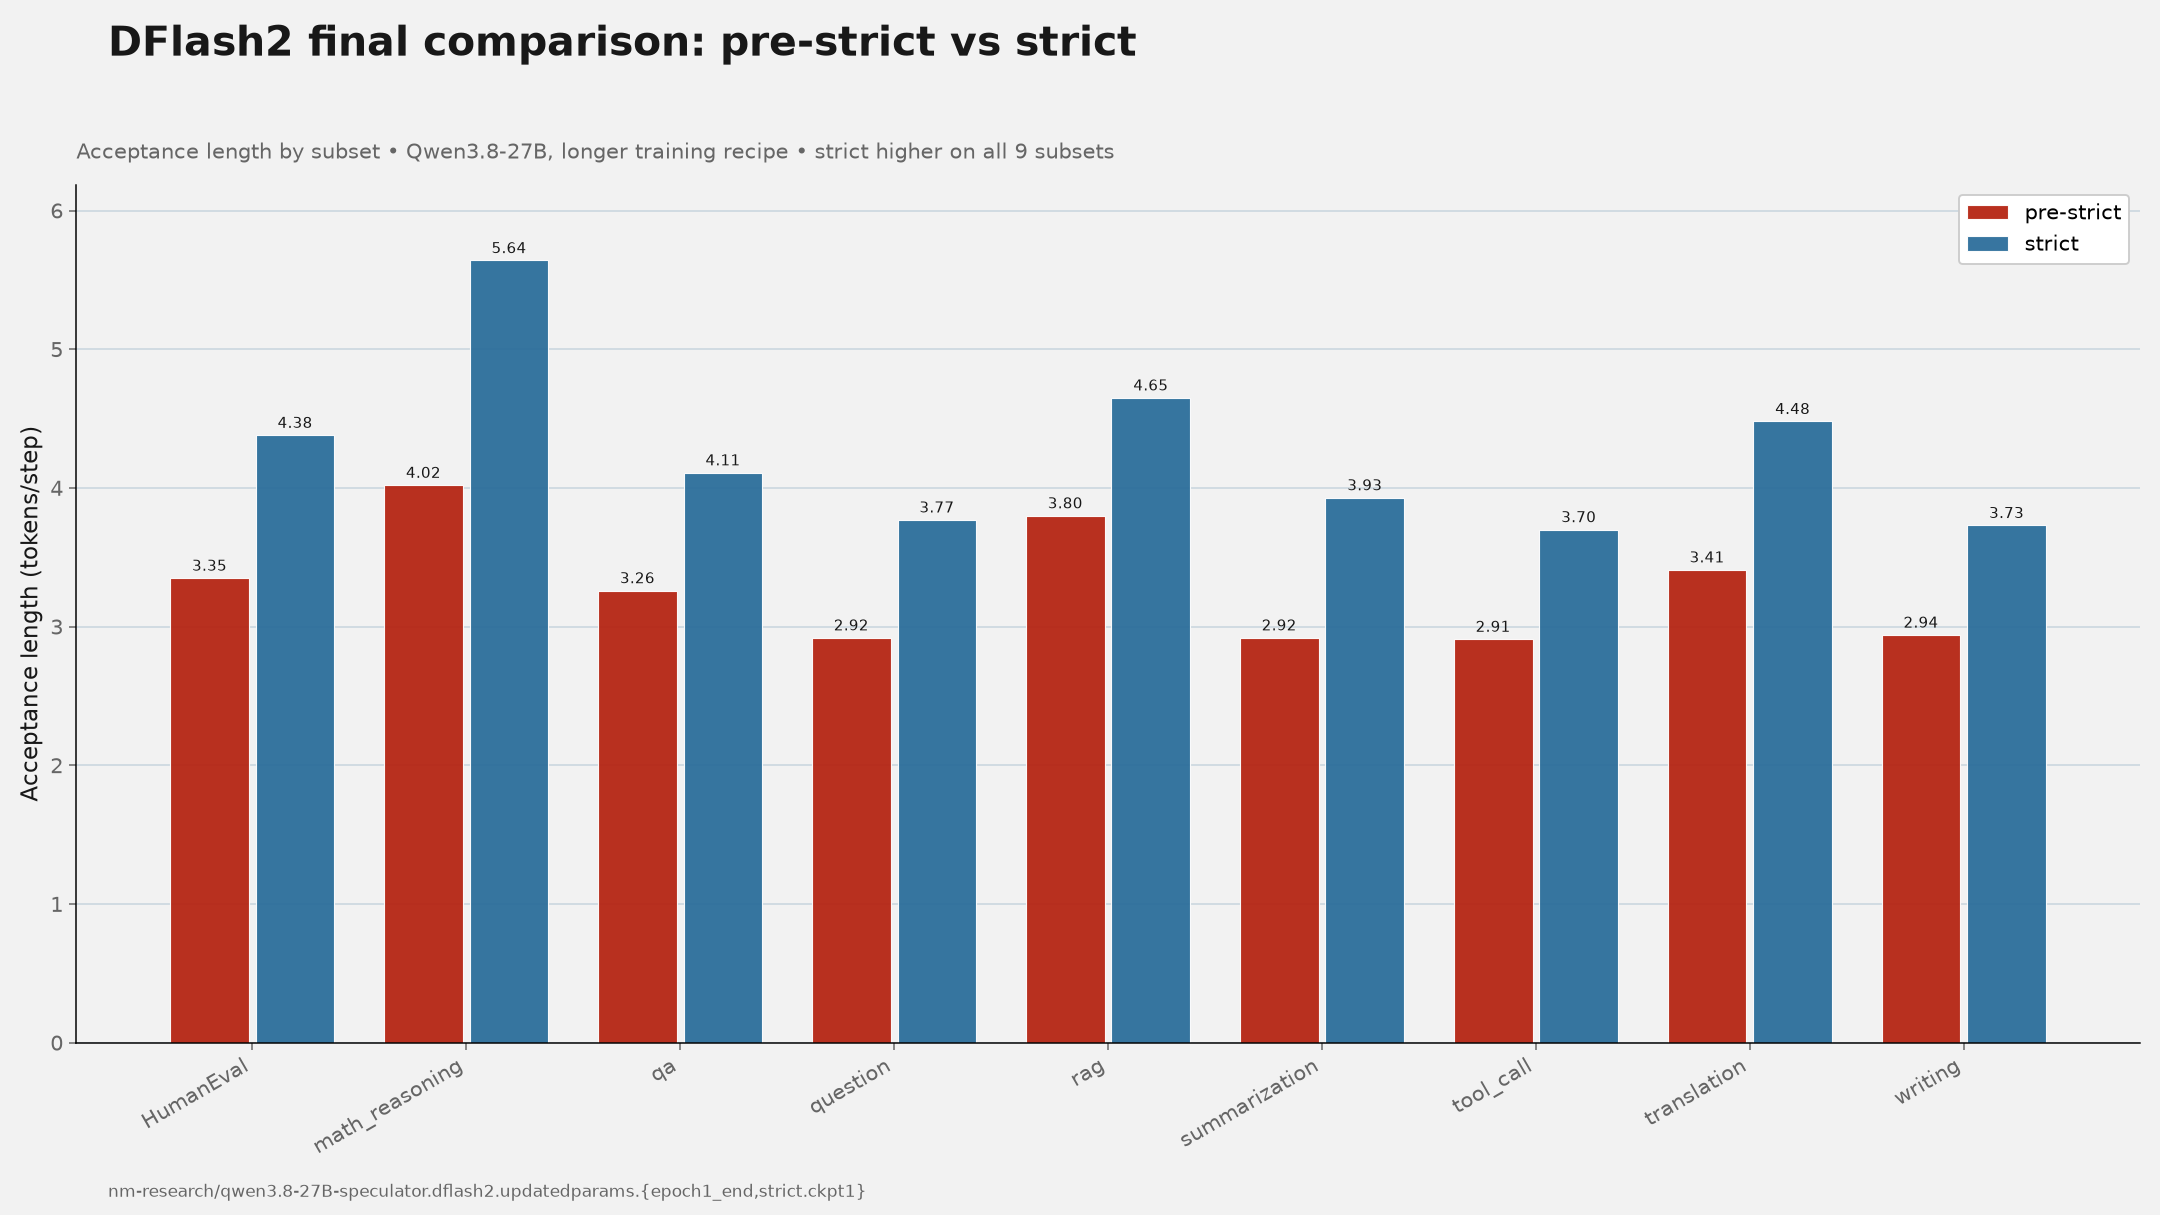
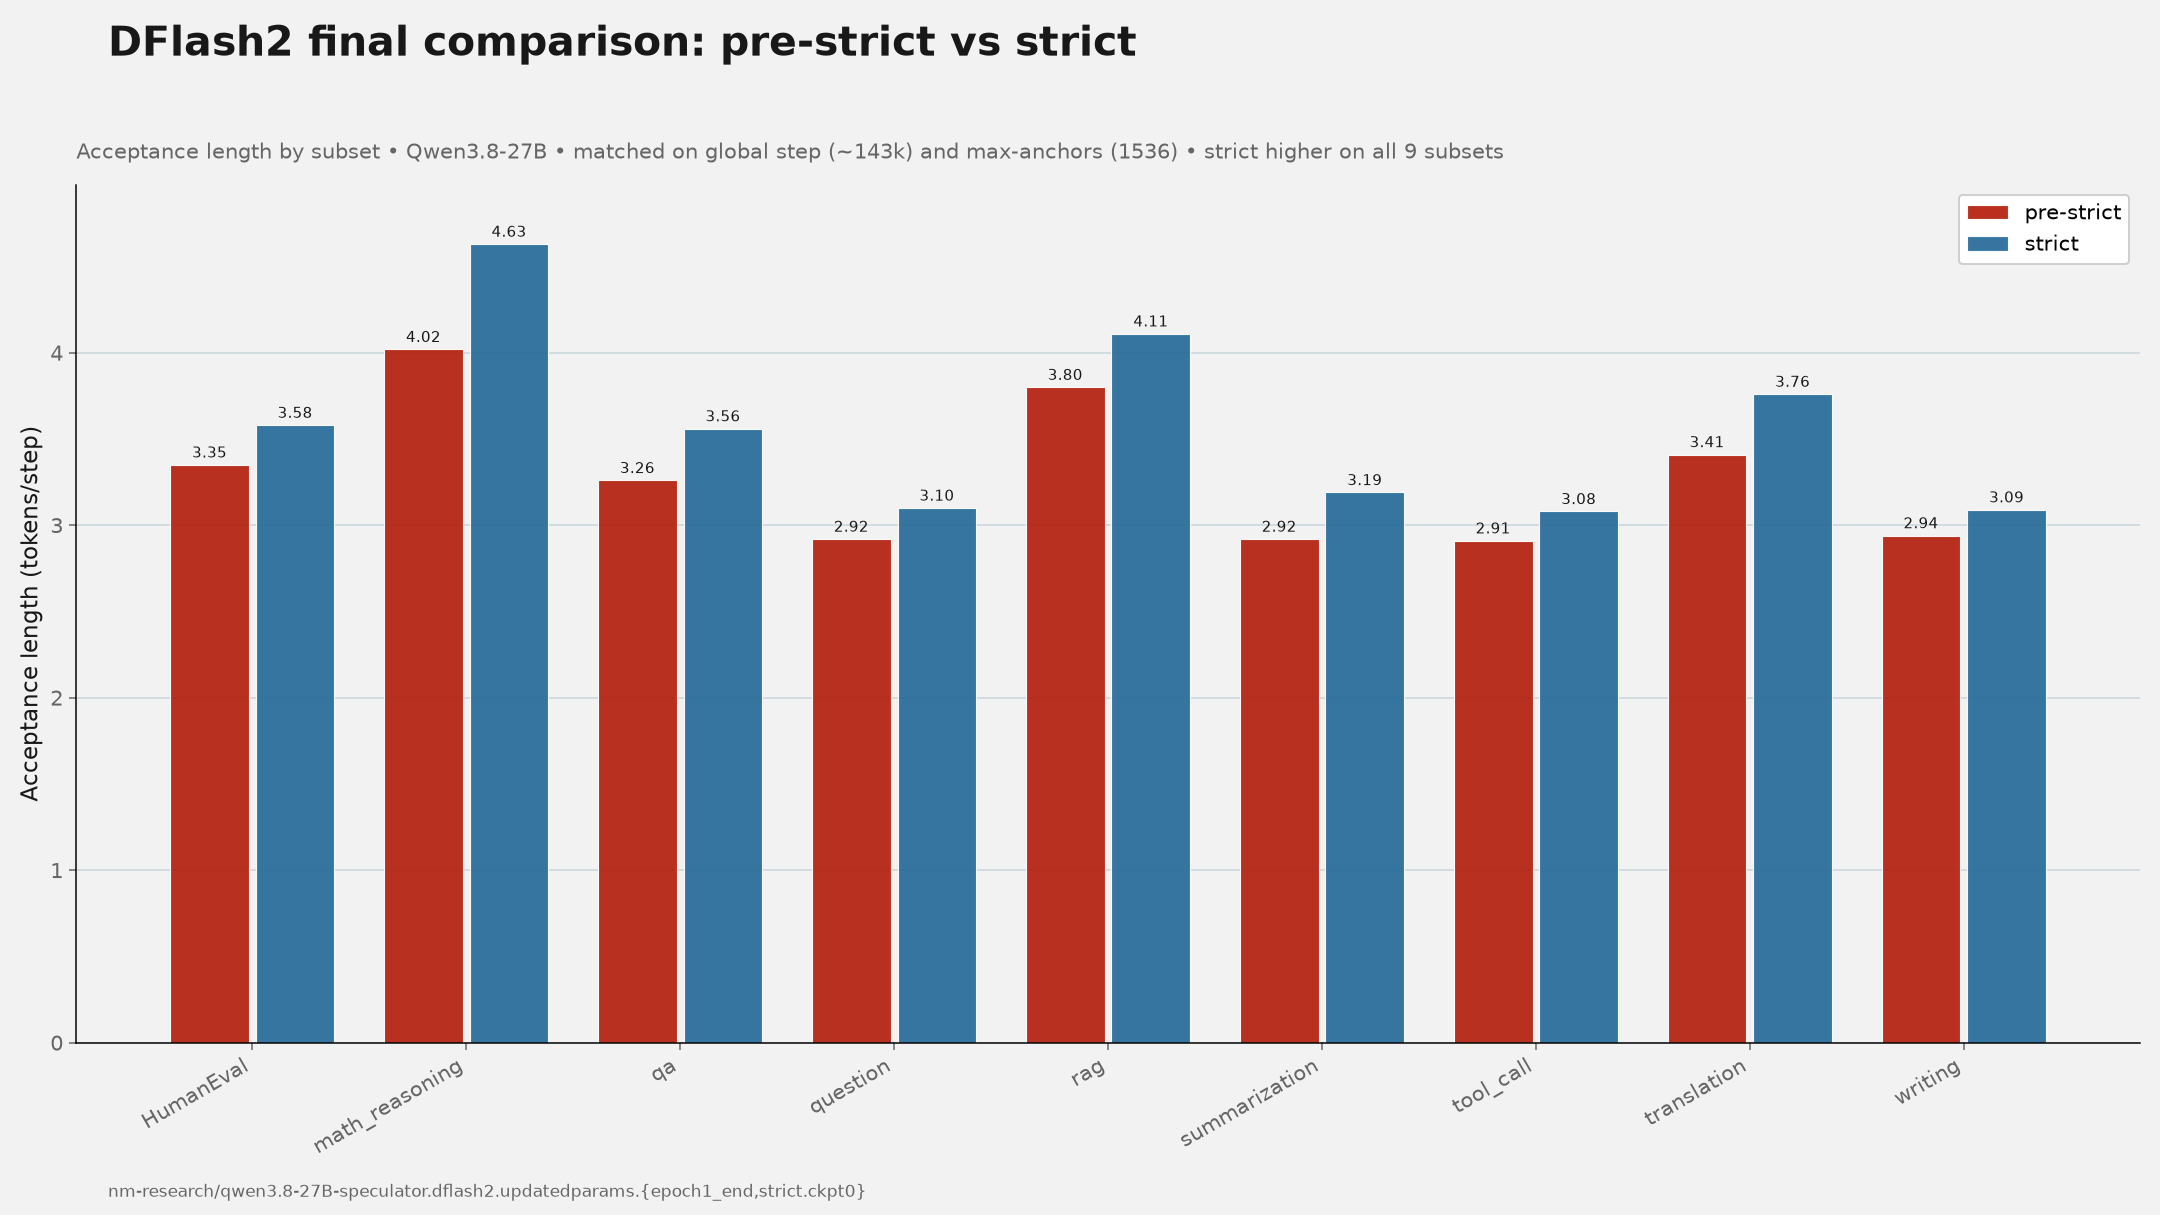
docs(research): fix final comparison to use step/max-anchors-matched ckpt0, not ckpt1

diff --git a/docs/research/dflash2-selector-and-loss-normalization-ablation-shubhra.md b/docs/research/dflash2-selector-and-loss-normalization-ablation-shubhra.md
@@ -18,7 +18,7 @@ tags:
 
 DFlash2's draft-model training had two open design questions worth investigating: how the selector should handle a missing gold token among its top-K candidates, and how the per-position selector loss should be normalized. This report covers ablations on both questions on Qwen3.8-27B, followed by a longer training run that incorporates the resulting change.
 
-For the selector miss policy, `strict` improves acceptance length over `replace` on every subset at 5k training steps, which motivated adding `strict` as a selectable policy in [Speculators PR #1217](https://github.com/vllm-project/speculators/pull/1217). At 25k steps the difference narrows and becomes mixed. For loss normalization, `valid_token_count` and `effective_weight_sum` produce comparable acceptance lengths at 20k training steps, with no consistent winner across subsets. A final comparison between a longer pre-strict checkpoint and its strict-policy counterpart shows `strict` ahead on every subset, by a wide margin.
+For the selector miss policy, `strict` improves acceptance length over `replace` on every subset at 5k training steps, which motivated adding `strict` as a selectable policy in [Speculators PR #1217](https://github.com/vllm-project/speculators/pull/1217). At 25k steps the difference narrows and becomes mixed. For loss normalization, `valid_token_count` and `effective_weight_sum` produce comparable acceptance lengths at 20k training steps, with no consistent winner across subsets. A final, step-matched comparison between a pre-strict checkpoint and its strict-policy counterpart shows `strict` ahead on every subset.
 
 ## Setup
 
@@ -31,11 +31,11 @@ For the selector miss policy, `strict` improves acceptance length over `replace`
   - strict, 25k steps: `qwen38-dflash2-selector-strict-25000steps-20261009_151402/checkpoints/0`
   - strict, effective-weight-sum normalization, 20k steps: `qwen38-dflash2-selector-strict-effective_weight_sum-20000steps-20261016_155251/checkpoints/0`
   - strict, valid-token-count normalization, 20k steps: `qwen38-dflash2-selector-strict-valid_token_count-20000steps-20261019_011313/checkpoints/0`
-  - final comparison, pre-strict: `nm-research/qwen3.8-27B-speculator.dflash2.updatedparams.epoch1_end` (Hugging Face Hub)
-  - final comparison, strict: `nm-research/qwen3.8-27B-speculator.dflash2.updatedparams.strict.ckpt1` (Hugging Face Hub)
+  - final comparison, pre-strict: `nm-research/qwen3.8-27B-speculator.dflash2.updatedparams.epoch1_end` (Hugging Face Hub; global step 143,291, `--max-anchors 1536`)
+  - final comparison, strict: `nm-research/qwen3.8-27B-speculator.dflash2.updatedparams.strict.ckpt0` (Hugging Face Hub; global step 143,349, `--max-anchors 1536`)
 - Algorithm settings: block size 8, selector top-K 16.
 - Training data: a prepared version of the open-perfectblend dataset mix.
-- Training: `torchrun`, 4 GPUs per run, seed 42, 1 epoch capped at the step counts above for the selector-policy and normalization ablations. The final-comparison checkpoints are from a separate, longer training recipe, run both without and with the strict policy; checkpoint naming indicates the other hyperparameters are shared between the two.
+- Training: `torchrun`, 4 GPUs per run, seed 42, 1 epoch capped at the step counts above for the selector-policy and normalization ablations. The final-comparison checkpoints are matched on global step and `max-anchors`, differing only in the `--selector-miss-policy` flag, confirmed from each checkpoint's `train_command.txt`.
 - Evaluation: `RedHatAI/speculator_benchmarks` via `evaluate.py ... throughput`.
 - Hardware: 8x NVIDIA H200 node (4 GPUs used per training run).
 
@@ -119,22 +119,22 @@ Mean acceptance length is very similar between the two normalization schemes, an
 
 ### Final comparison: pre-strict versus strict
 
-This is a longer-training follow-up to the step-capped ablation above, comparing a pre-strict checkpoint against its strict-policy counterpart from the same training recipe.
+This compares a pre-strict checkpoint against its strict-policy counterpart from the same longer training recipe, matched on global training step (143,291 vs. 143,349) and `max-anchors` (1536 for both); the two checkpoints differ only in the `--selector-miss-policy` flag.
 
 | Subset | Pre-strict | Strict | Strict − pre-strict |
 |---|---:|---:|---:|
-| HumanEval | 3.35 | 4.38 | +1.03 |
-| math_reasoning | 4.02 | 5.64 | +1.62 |
-| qa | 3.26 | 4.11 | +0.85 |
-| question | 2.92 | 3.77 | +0.85 |
-| rag | 3.80 | 4.65 | +0.85 |
-| summarization | 2.92 | 3.93 | +1.01 |
-| tool_call | 2.91 | 3.70 | +0.79 |
-| translation | 3.41 | 4.48 | +1.07 |
-| writing | 2.94 | 3.73 | +0.79 |
-| Mean | 3.28 | 4.27 | +0.99 |
+| HumanEval | 3.35 | 3.58 | +0.24 |
+| math_reasoning | 4.02 | 4.63 | +0.61 |
+| qa | 3.26 | 3.56 | +0.30 |
+| question | 2.92 | 3.10 | +0.18 |
+| rag | 3.80 | 4.11 | +0.31 |
+| summarization | 2.92 | 3.19 | +0.28 |
+| tool_call | 2.91 | 3.08 | +0.17 |
+| translation | 3.41 | 3.76 | +0.35 |
+| writing | 2.94 | 3.09 | +0.15 |
+| Mean | 3.28 | 3.57 | +0.29 |
 
-Strict is higher on every subset, with a larger and more consistent margin than the step-capped 5k/25k comparison above.
+Strict is higher on every subset, a smaller but still consistent margin compared to the step-capped 5k comparison above.
 
 ![DFlash2 final comparison, pre-strict vs strict](../assets/research/dflash2_final_prestrict_vs_strict.png)
 
@@ -143,7 +143,7 @@ Strict is higher on every subset, with a larger and more consistent margin than 
 - The `strict` selector miss policy improved acceptance length over `replace` on every subset at 5k training steps, motivating its addition as a selectable training option; at 25k training steps the difference narrows and becomes mixed.
 - `val/unary_candidate_recall_at_16_epoch` consistently favors `strict` over `replace` at both 5k and 25k training steps, even where downstream acceptance length does not.
 - `valid_token_count` and `effective_weight_sum` loss normalization produce comparable acceptance lengths at 20k training steps, with no consistent subset-level winner.
-- In a longer-training final comparison, `strict` is higher than pre-strict on every subset, by a wide and consistent margin.
+- In a final comparison matched on global training step and `max-anchors`, `strict` is higher than pre-strict on every subset, consistent with the 5k-step result.
 - Results above do not include run-to-run variance or confidence intervals; subset-level differences should be interpreted descriptively rather than as statistically significant.
 
 ## References
